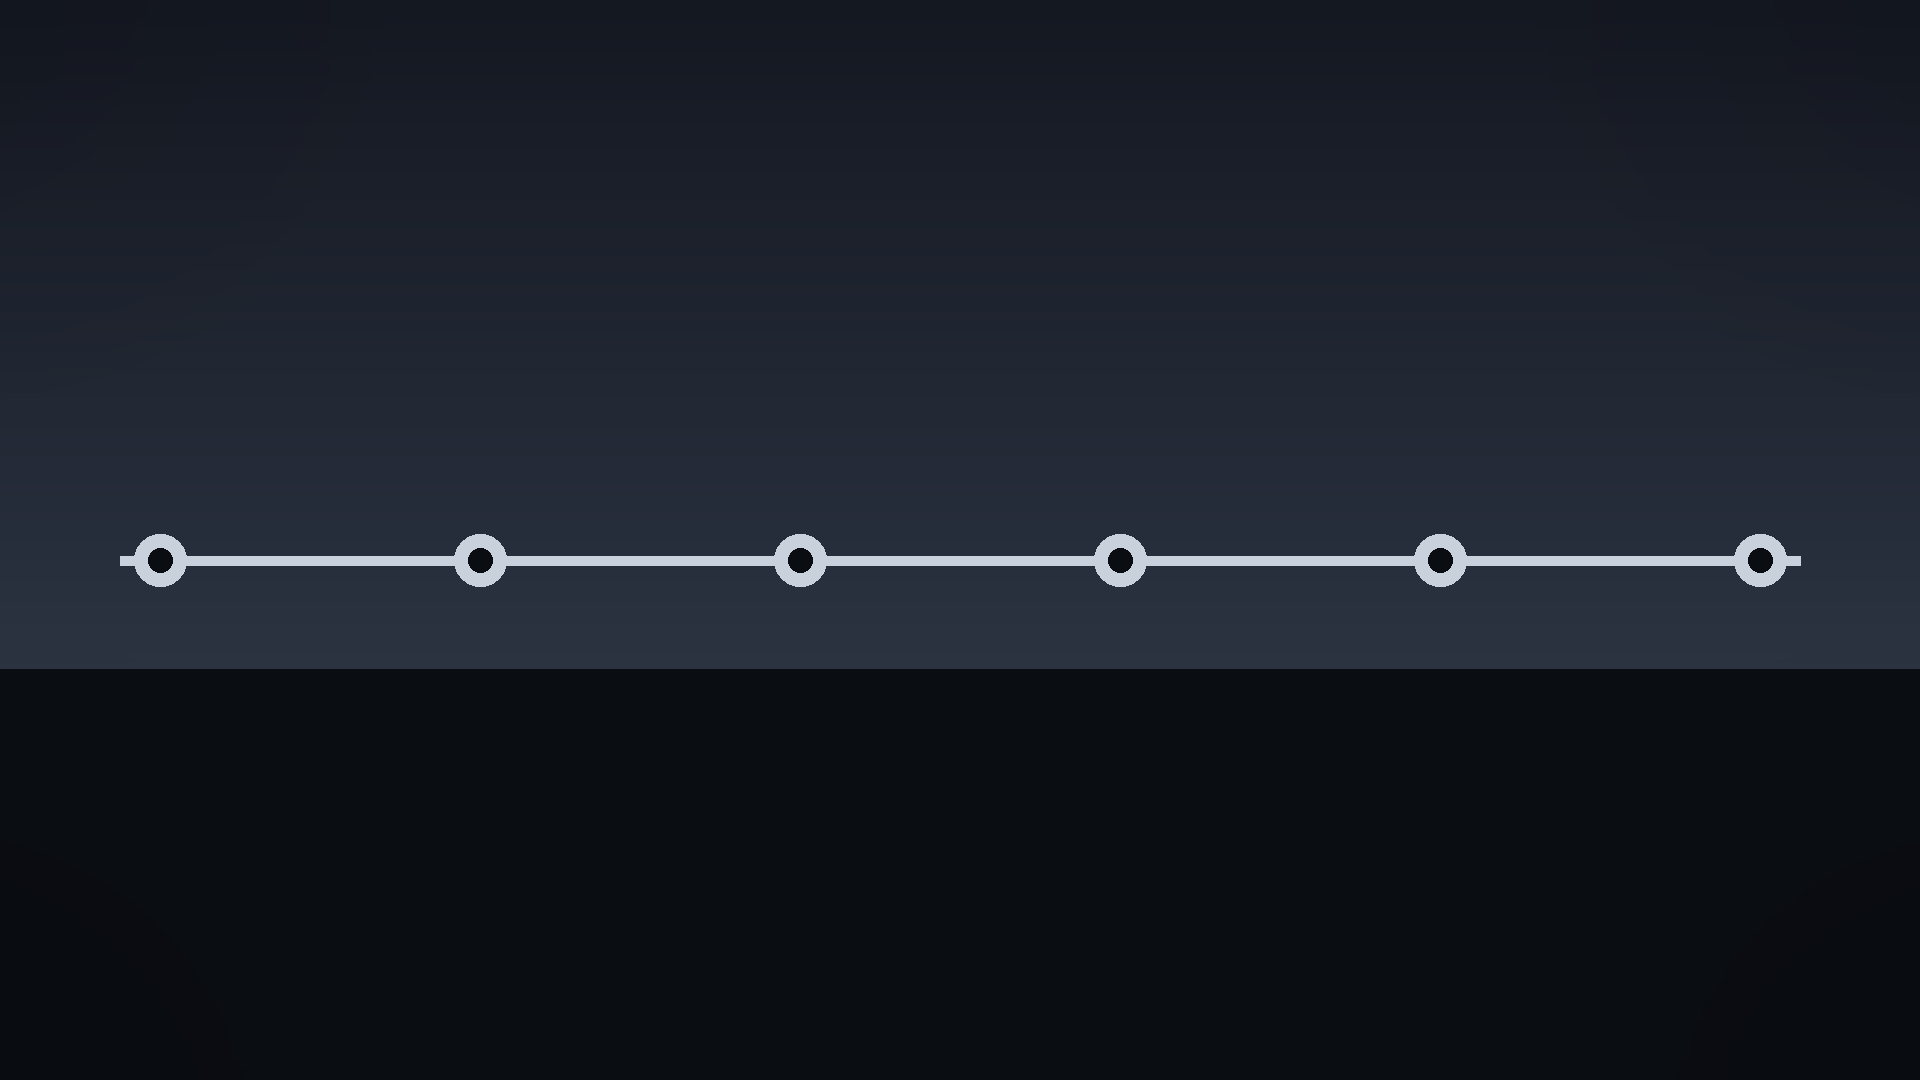
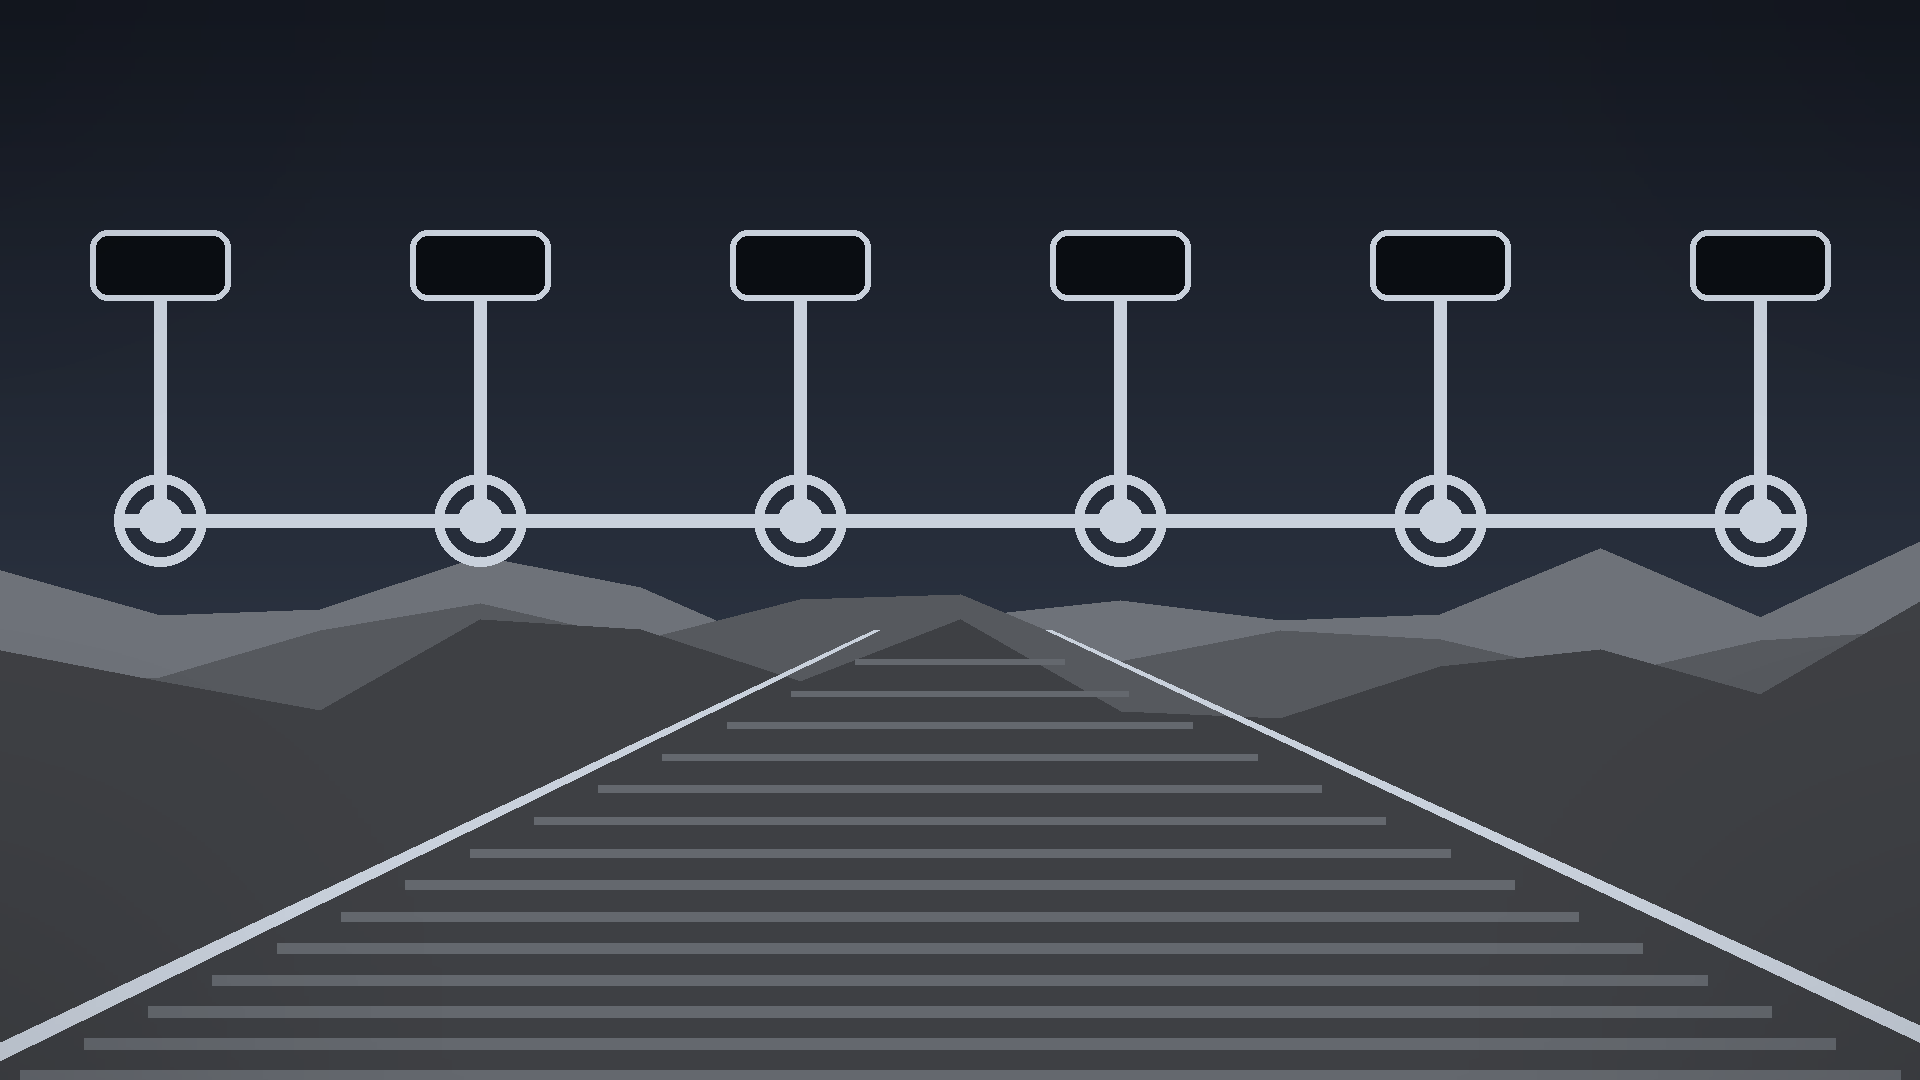
Explainer: keep every shot visibly moving (check_render freeze fix)
check_render.py on the first 5-minute draft failed `freeze` (8.3 s
still at 201 s) and per-shot measurement showed most 2D moves were
below the detector's threshold at long-form shot lengths, with
"static" shots truly frozen.

- cameraTransform2D: amplitudes sized for 8–15 s shots (pan ±9 %, push
  1.02→1.42, tilt ±10 %, orbit ±7 %); "static" now drifts (scale
  1.04→1.26 with a slow diagonal translate).
- ExplainerScene3D: hero travels along the track over the shot, the 2D
  backdrop drifts, brighter lights.
- Timeline scene art redrawn with hills, rails, tick posts and rings so
  a camera move reads on a flat graphic; the two timeline shots push in
  instead of panning along their own horizontal line.

36 s motion test (one shot per camera move) now passes freeze, cut,
speed and jump; plan checks still 12 pass / 0 errors.

Claude-Session: https://claude.ai/code/session_015vLTFUHC4x4qFGN8G5SQYF

diff --git a/remotion/src/ExplainerReel.tsx b/remotion/src/ExplainerReel.tsx
@@ -75,22 +75,24 @@ const ease = (t: number) => 1 - Math.pow(1 - t, 3);
 
 /** CSS transform for a 2D camera move over the scene duration. */
 export const cameraTransform2D = (motion: CameraMotion, p: number): string => {
+  // Amplitudes are sized for 8–15 s long-form shots: every move must stay visibly alive for the
+  // whole shot (check_render.py fails anything frozen > 1.2 s), so even "static" drifts slowly.
   switch (motion) {
-    case "pan_slow_right": return `scale(1.18) translateX(${interpolate(p, [0, 1], [4, -4])}%)`;
+    case "pan_slow_right": return `scale(1.28) translateX(${interpolate(p, [0, 1], [9, -9])}%) translateY(${interpolate(p, [0, 1], [1.5, -1.5])}%)`;
     case "push_forward":
-    case "slow_dolly_in": return `scale(${interpolate(p, [0, 1], [1.04, 1.22])})`;
-    case "dolly_out": return `scale(${interpolate(p, [0, 1], [1.24, 1.04])})`;
-    case "crash_zoom": return `scale(${interpolate(ease(p), [0, 1], [1.0, 1.6])})`;
+    case "slow_dolly_in": return `scale(${interpolate(p, [0, 1], [1.02, 1.42])}) translateY(${interpolate(p, [0, 1], [0, -2])}%)`;
+    case "dolly_out": return `scale(${interpolate(p, [0, 1], [1.44, 1.04])})`;
+    case "crash_zoom": return `scale(${interpolate(ease(p), [0, 1], [1.0, 1.7])})`;
     case "tilt_up":
-    case "aerial_reveal": return `scale(1.2) translateY(${interpolate(p, [0, 1], [5, -5])}%)`;
+    case "aerial_reveal": return `scale(1.32) translateY(${interpolate(p, [0, 1], [10, -10])}%) translateX(${interpolate(p, [0, 1], [-1.5, 1.5])}%)`;
     case "orbit":
-    case "dynamic_orbit": return `scale(1.22) translateX(${Math.sin(p * Math.PI) * 4}%) translateY(${Math.cos(p * Math.PI) * 2}%) rotate(${interpolate(p, [0, 1], [-1.5, 1.5])}deg)`;
+    case "dynamic_orbit": return `scale(1.3) translateX(${Math.sin(p * Math.PI) * 7}%) translateY(${Math.cos(p * Math.PI) * 3.5}%) rotate(${interpolate(p, [0, 1], [-2, 2])}deg)`;
     case "fly_by_left":
-    case "drone_fly_by": return `scale(1.3) translateX(${interpolate(p, [0, 1], [10, -10])}%) translateY(${interpolate(p, [0, 1], [3, -2])}%)`;
+    case "drone_fly_by": return `scale(1.38) translateX(${interpolate(p, [0, 1], [13, -13])}%) translateY(${interpolate(p, [0, 1], [3, -2])}%)`;
     case "fly_by_right":
-    case "tracking_shot": return `scale(1.3) translateX(${interpolate(p, [0, 1], [-10, 10])}%)`;
-    case "handheld": return `scale(1.12) translate(${Math.sin(p * 31) * 0.6}%, ${Math.cos(p * 23) * 0.5}%)`;
-    default: return "scale(1.06)";
+    case "tracking_shot": return `scale(1.38) translateX(${interpolate(p, [0, 1], [-13, 13])}%)`;
+    case "handheld": return `scale(1.14) translate(${Math.sin(p * 31) * 0.8}%, ${Math.cos(p * 23) * 0.6}%)`;
+    default: return `scale(${interpolate(p, [0, 1], [1.04, 1.26])}) translate(${interpolate(p, [0, 1], [2.5, -2.5])}%, ${interpolate(p, [0, 1], [-2, 2])}%)`;
   }
 };
 

diff --git a/remotion/src/ExplainerScene3D.tsx b/remotion/src/ExplainerScene3D.tsx
@@ -169,6 +169,20 @@ const Ground = () => (
   </group>
 );
 
+/** The 2D backdrop behind the 3D stage drifts slowly so the frame never reads as frozen. */
+const BackdropDrift = ({ frames, children }: { frames: number; children: React.ReactNode }) => {
+  const frame = useCurrentFrame();
+  const p = interpolate(frame, [0, frames], [0, 1], clamp);
+  return <AbsoluteFill style={{ transform: `scale(${interpolate(p, [0, 1], [1.12, 1.28])}) translateX(${interpolate(p, [0, 1], [3, -3])}%)`, transformOrigin: "center" }}>{children}</AbsoluteFill>;
+};
+
+/** The hero travels along the track over the shot (≈ 3 units), independent of the camera path. */
+const HeroTravel = ({ frames, children }: { frames: number; children: React.ReactNode }) => {
+  const frame = useCurrentFrame();
+  const x = interpolate(frame, [0, frames], [-3.2, 3.2], clamp);
+  return <group position={[x, 0, 0]}>{children}</group>;
+};
+
 export const ExplainerScene3D = ({ scene, frames, accent }: { scene: ExplainerScene; frames: number; accent: string }) => {
   const { width, height } = useVideoConfig();
   const modelUrl = scene.assets3d?.find((a) => a.source_url)?.source_url;
@@ -176,17 +190,19 @@ export const ExplainerScene3D = ({ scene, frames, accent }: { scene: ExplainerSc
 
   return (
     <AbsoluteFill style={{ backgroundColor: "#0b1220" }}>
-      {backdrop && <Img src={backdrop} style={{ width: "100%", height: "100%", objectFit: "cover", opacity: 0.8, filter: "blur(1.5px)" }} />}
+      {backdrop && <BackdropDrift frames={frames}><Img src={backdrop} style={{ width: "100%", height: "100%", objectFit: "cover", opacity: 0.85, filter: "blur(1.2px)" }} /></BackdropDrift>}
       <ThreeCanvas width={width} height={height} camera={{ fov: 42, near: 0.1, far: 200, position: [4, 1.8, 6.5] }} style={{ position: "absolute", inset: 0 }}>
-        <ambientLight intensity={0.5} />
-        <directionalLight position={[6, 10, 4]} intensity={2.2} castShadow />
+        <ambientLight intensity={0.9} />
+        <directionalLight position={[6, 10, 4]} intensity={3.0} castShadow />
         <pointLight position={[-6, 3, -4]} intensity={1.2} color={accent} />
         <fog attach="fog" args={["#0b1220", 12, 45]} />
         <Rig motion={scene.cameraMotion} frames={frames} />
         <Ground />
-        <Suspense fallback={<Placeholder accent={accent} kind={placeholderKind(scene)} />}>
-          {modelUrl ? <Model url={modelUrl} /> : <Placeholder accent={accent} kind={placeholderKind(scene)} />}
-        </Suspense>
+        <HeroTravel frames={frames}>
+          <Suspense fallback={<Placeholder accent={accent} kind={placeholderKind(scene)} />}>
+            {modelUrl ? <Model url={modelUrl} /> : <Placeholder accent={accent} kind={placeholderKind(scene)} />}
+          </Suspense>
+        </HeroTravel>
       </ThreeCanvas>
     </AbsoluteFill>
   );

diff --git a/remotion/scripts/draw_trains_scenes.py b/remotion/scripts/draw_trains_scenes.py
@@ -118,11 +118,20 @@ def s_hero_rocket():
     img,d,(sky,mid,hi,ground)=base("dawn"); hills(d,hi,ground,600,seed=11); rails(d,rgb(hi)); steam_loco(d,560,860,1.0,rgb(ground),rgb(hi)); save(img,"01_rocket_hero")
 def s_shinkansen_today():
     img,d,(sky,mid,hi,ground)=base("steel"); city(d,rgb(hi),ground); d.rectangle([0,700,W,H],fill=ground); bullet(d,300,900,1.0,rgb("#e8eef5"),rgb(hi),rgb("#2563eb")); save(img,"02_shinkansen_today")
+def timeline_scene(pal, name, n, seed):
+    """Timeline with enough structure (hills, rails, tall tick posts, rings) that a camera move reads on screen."""
+    img,d,(sky,mid,hi,ground)=base(pal); hills(d,hi,ground,600,seed=seed); rails(d,rgb(hi))
+    d.line([(120,520),(W-120,520)],fill=rgb(hi),width=14)
+    for i in range(n):
+        x=160+i*(W-320)//max(1,n-1)
+        d.rectangle([x-6,300,x+6,520],fill=rgb(hi))                       # tick post
+        d.ellipse([x-46,474,x+46,566],outline=rgb(hi),width=10)           # ring
+        d.ellipse([x-22,498,x+22,542],fill=rgb(hi))
+        d.rounded_rectangle([x-70,230,x+70,300],radius=18,fill=rgb(ground),outline=rgb(hi),width=6)  # label plate
+    save(img,name)
+
 def s_timeline():
-    img,d,(sky,mid,hi,ground)=base("slate"); d.line([(120,560),(W-120,560)],fill=rgb(hi),width=10)
-    for i,yr in enumerate(["1804","1829","1869","1938","1964","2015"]):
-        x=160+i*(W-320)//5; d.ellipse([x-26,534,x+26,586],fill=rgb(hi)); d.ellipse([x-12,548,x+12,572],fill=ground)
-    save(img,"03_timeline")
+    timeline_scene("slate","03_timeline",6,3)
 def s_horse():
     img,d,(sky,mid,hi,ground)=base("sepia"); hills(d,hi,ground,560,seed=5)
     d.rectangle([0,760,W,H],fill=rgb(mid)); d.rectangle([900,700,1500,860],fill=rgb(ground)); # wagon
@@ -201,9 +210,7 @@ def s_maglev():
     g=maglev(d,300,900,1.0,rgb(mid),rgb(hi),rgb("#60a5fa")); bullet(d,300,890,1.0,rgb("#f8fafc"),rgb(hi),rgb("#60a5fa"))
     img=Image.alpha_composite(img.convert("RGBA"), g.filter(ImageFilter.GaussianBlur(30))); save(img,"23_maglev")
 def s_timeline2():
-    img,d,(sky,mid,hi,ground)=base("dawn"); d.line([(120,560),(W-120,560)],fill=rgb(hi),width=10)
-    for i in range(7): x=160+i*(W-320)//6; d.ellipse([x-26,534,x+26,586],fill=rgb(hi))
-    save(img,"24_timeline_end")
+    timeline_scene("dawn","24_timeline_end",7,19)
 def s_horizon():
     img,d,(sky,mid,hi,ground)=base("sun"); hills(d,hi,ground,640,seed=41); rails(d,rgb(hi)); d.ellipse([W//2-160,420,W//2+160,740],fill=rgb(hi)); d.rectangle([0,740,W,H],fill=rgb(ground)); rails(d,rgb(hi)); save(img,"25_horizon")
 
